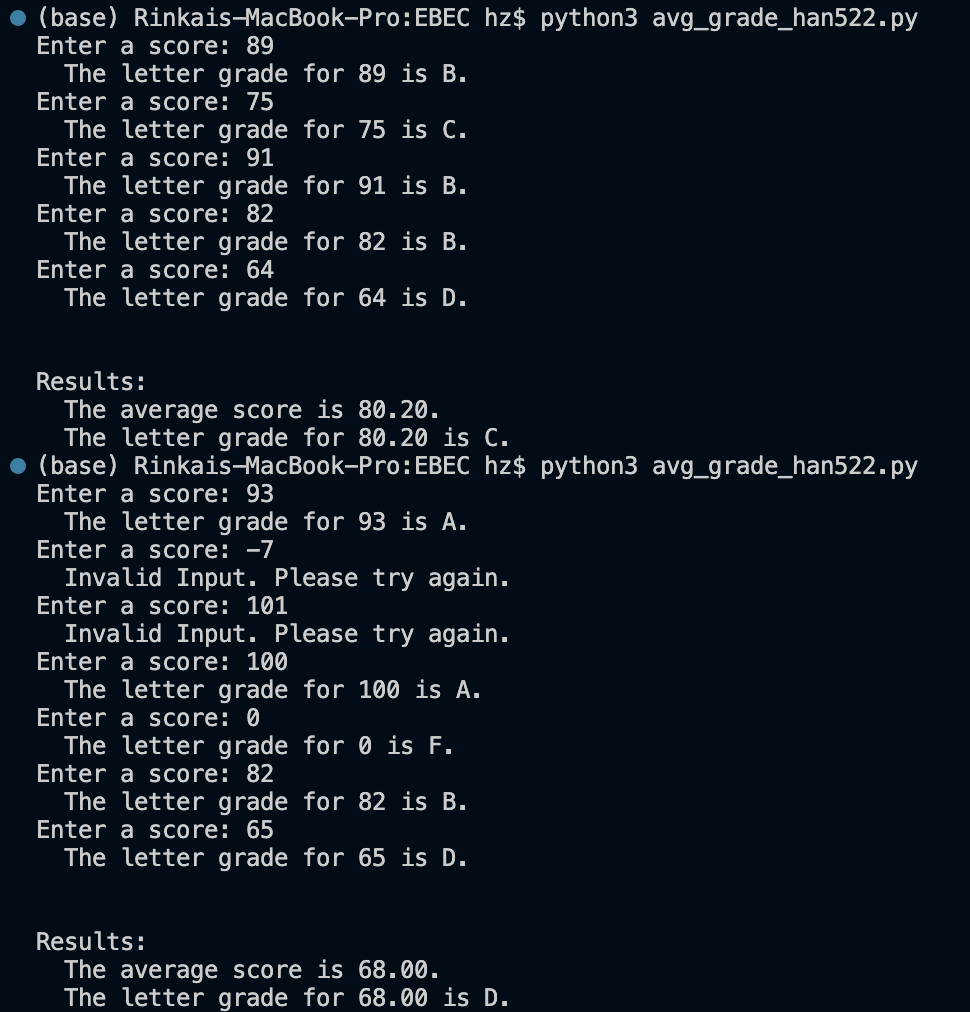
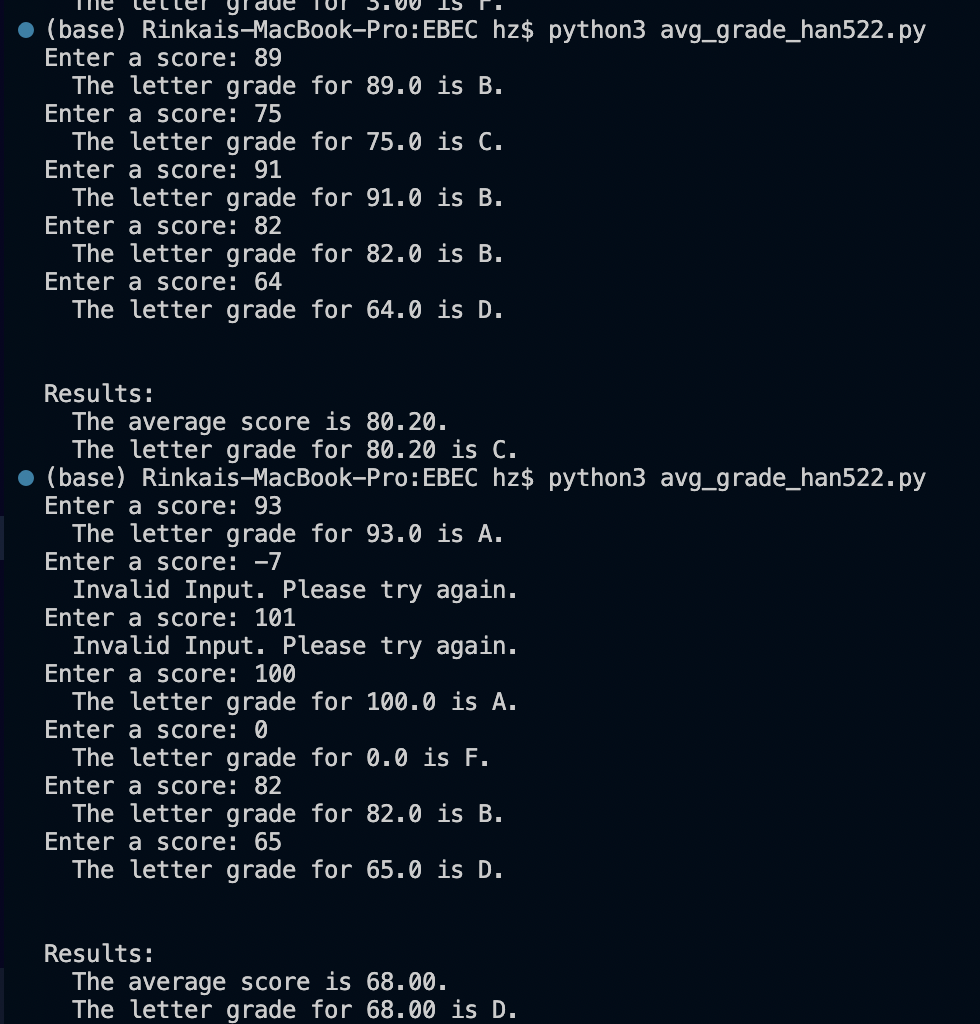
Add files via upload

Changed region(s): [[0.0, 0.3676, 0.9588, 0.8577], [0.0, 0.0, 0.9588, 0.337], [0.0309, 0.919, 0.5258, 1.0]]

diff --git a/avg_grade_han522.py b/avg_grade_han522.py
@@ -41,7 +41,8 @@ def get_valid_score(grade):
 #Define the average score of the grades entered
 def calc_average(valid):
     sum = 0
-    for i in range(0,5):
+    scope = len(valid)
+    for i in range(0, scope):
         sum += valid[i]
     avg = sum / 5
     return avg
@@ -65,15 +66,15 @@ def determine_grade(avg):
 def main():
     valid = [0, 0, 0, 0, 0]
     for i in range(0,5):
-        score = int(input("Enter a score: "))
-        valid[i] = get_valid_score(score)
+        grade = int(input("Enter a score: "))
+        valid[i] = get_valid_score(grade)
         letter = determine_grade(valid[i])
-        print(f"  The letter grade for {valid[i]} is {letter}.")
+        print(f"  The letter grade for {valid[i]:.1f} is {letter}.")
     
     avg = calc_average(valid)
     final = determine_grade(avg)
-    print("\n")
     #Output Results
+    print("\n")
     print("Results:")
     print(f"  The average score is {avg:.2f}.")
     print(f"  The letter grade for {avg:.2f} is {final}.")
